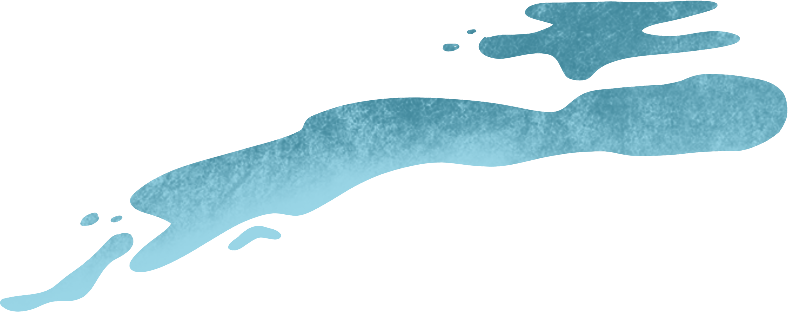
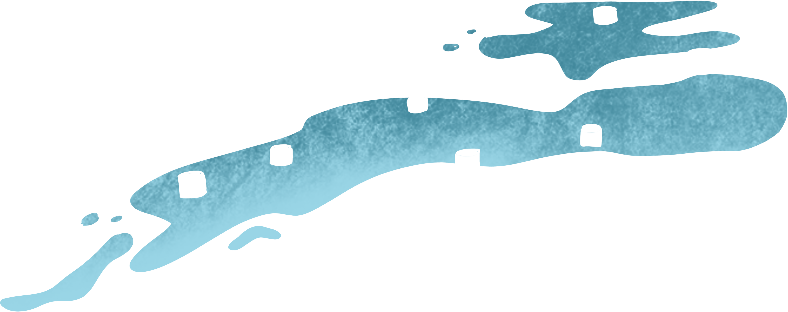
Finishing placing effects indicator

diff --git a/data/amenagements.js b/data/amenagements.js
@@ -331,12 +331,17 @@ const agricole = [
         effects: {
             evaporation: {
                 modifier: -1,
+                indicator: {
+                    inactiveIndicator: true,
+                    x: 4470,
+                    y: 601
+                }
             },
             infiltration: {
                 modifier: +1,
                 indicator: {
-                    x: 11,
-                    y: 50
+                    x: 4198,
+                    y: 1225
                 }
             },
             qualiteEau: {
@@ -357,7 +362,7 @@ const agricole = [
     {
         milieu: "agricole",
         label: "Travail du sol superficiel",
-        x: 38,
+        x: 43,
         y: 56,
         active: true,
         imageActive: {
@@ -374,19 +379,25 @@ const agricole = [
             evaporation: {
                 modifier: +1,
                 indicator: {
-                    x: 38,
-                    y: 56
+                    x: 5098,
+                    y: 838
                 }
             },
             infiltration: {
                 modifier: +1,
                 indicator: {
-                    x: 38,
-                    y: 56
+                    x: 4998,
+                    y: 1237
                 }
             },
             ruissellement: {
-                modifier: -1
+                modifier: -1,
+                indicator: {
+                    inactiveIndicator: true,
+                    image: 'img/indicators/ruissellements-cropped/ruissellements-labour.png',
+                    x: 4604,
+                    y: 865,
+                }
             },
             reseauEau: {
                 modifier: -1
@@ -418,8 +429,8 @@ const agricole = [
             infiltration: {
                 modifier: +1,
                 indicator: {
-                    x: 82,
-                    y: 48
+                    x: 6915,
+                    y: 1380
                 }
             },
             qualiteEau: {
@@ -427,6 +438,12 @@ const agricole = [
             },
             ruissellement: {
                 modifier: -1,
+                indicator: {
+                    inactiveIndicator: true,
+                    image: 'img/indicators/ruissellements-cropped/ruissellement-elevageclassique.png',
+                    x: 6447,
+                    y: 928
+                }
             },
             reseauEau: {
                 modifier: -1
@@ -452,10 +469,6 @@ const agricole = [
         effects: {
             infiltration: {
                 modifier: +1,
-                indicator: {
-                    x: 25,
-                    y: 35
-                }
             },
             qualiteEau: {
                 modifier: +1
@@ -490,8 +503,8 @@ const naturel = [
             evaporation: {
                 modifier: +1,
                 indicator: {
-                    x: 59,
-                    y: 34
+                    x: 9737,
+                    y: 559
                 }
             },
             infiltration: {
@@ -539,8 +552,8 @@ const naturel = [
             infiltration: {
                 modifier: +1,
                 indicator: {
-                    x: 47,
-                    y: 54
+                    x: 8584,
+                    y: 1351
                 }
             },
             qualiteEau: {
@@ -610,13 +623,18 @@ const naturel = [
         },
         effects: {
             evaporation: {
-                modifier: -1
+                modifier: -1,
+                indicator: {
+                    invalidIndicator: true,
+                    x: 8072,
+                    y: 765
+                }
             },
             infiltration: {
                 modifier: +1,
                 indicator: {
-                    x: 18,
-                    y: 45
+                    x: 7684,
+                    y: 1376
                 }
             },
             qualiteEau: {
@@ -652,8 +670,8 @@ const naturel = [
             evaporation: {
                 modifier: +1,
                 indicator: {
-                    x: 72,
-                    y: 27
+                    x: 10227,
+                    y: 360
                 }
             },
             infiltration: {
@@ -725,12 +743,17 @@ const naturel = [
             evaporation: {
                 modifier: +1,
                 indicator: {
-                    x: 83,
-                    y: 55
+                    x: 10950,
+                    y: 579
                 }
             },
             infiltration: {
-                modifier: -1
+                modifier: -1,
+                indicator: {
+                    invalidIndicator: true,
+                    x: 11150,
+                    y: 1223
+                }
             },
             qualiteEau: {
                 modifier: -1
@@ -738,9 +761,9 @@ const naturel = [
             ruissellement: {
                 modifier: +3,
                 indicator: {
-                    image: 'img/indicators/ruissellements-cropped/ruissellement-coupe-rase.png',
+                    image: 'img/indicators/ruissellements-cropped/ruissellement-couperase.png',
                     x: 10698,
-                    y: 1003
+                    y: 1003,
                 }
             },
             reseauEau: {

diff --git a/styles.css b/styles.css
@@ -205,7 +205,7 @@ body[data-milieu="3"] #focus-container {
     position:absolute;
     gap: 4px;
     transform: translateY(-132px);
-    z-index: 1;
+    z-index: 2;
 }
 
 .point-info .amenagement-ui {
@@ -708,6 +708,7 @@ body[data-milieu="3"] #gui #gui-bottom #nav:after {
 
 .effect-indicator {
     position: absolute;
+    z-index: 1;
     pointer-events: none;
     opacity:0;
     visibility: hidden;
@@ -749,11 +750,6 @@ body[data-milieu="3"] #gui #gui-bottom #nav:after {
     opacity:1;
     visibility: visible;
 }
-/*.amenagement.active .effect-indicator.active-indicator,*/
-/*.amenagement:not(.active) .effect-indicator.inactive-indicator{*/
-/*    opacity:1!important;*/
-/*    visibility: visible;*/
-/*}*/
 
 @keyframes fleche-evaporation {
     0% {

diff --git a/events.js b/events.js
@@ -1,7 +1,5 @@
 function setupEventListeners()
 {
-    $('body').click(logClickPos);
-
     $(document).click(hideAllModals);
 
     setupNavEventListeners();
